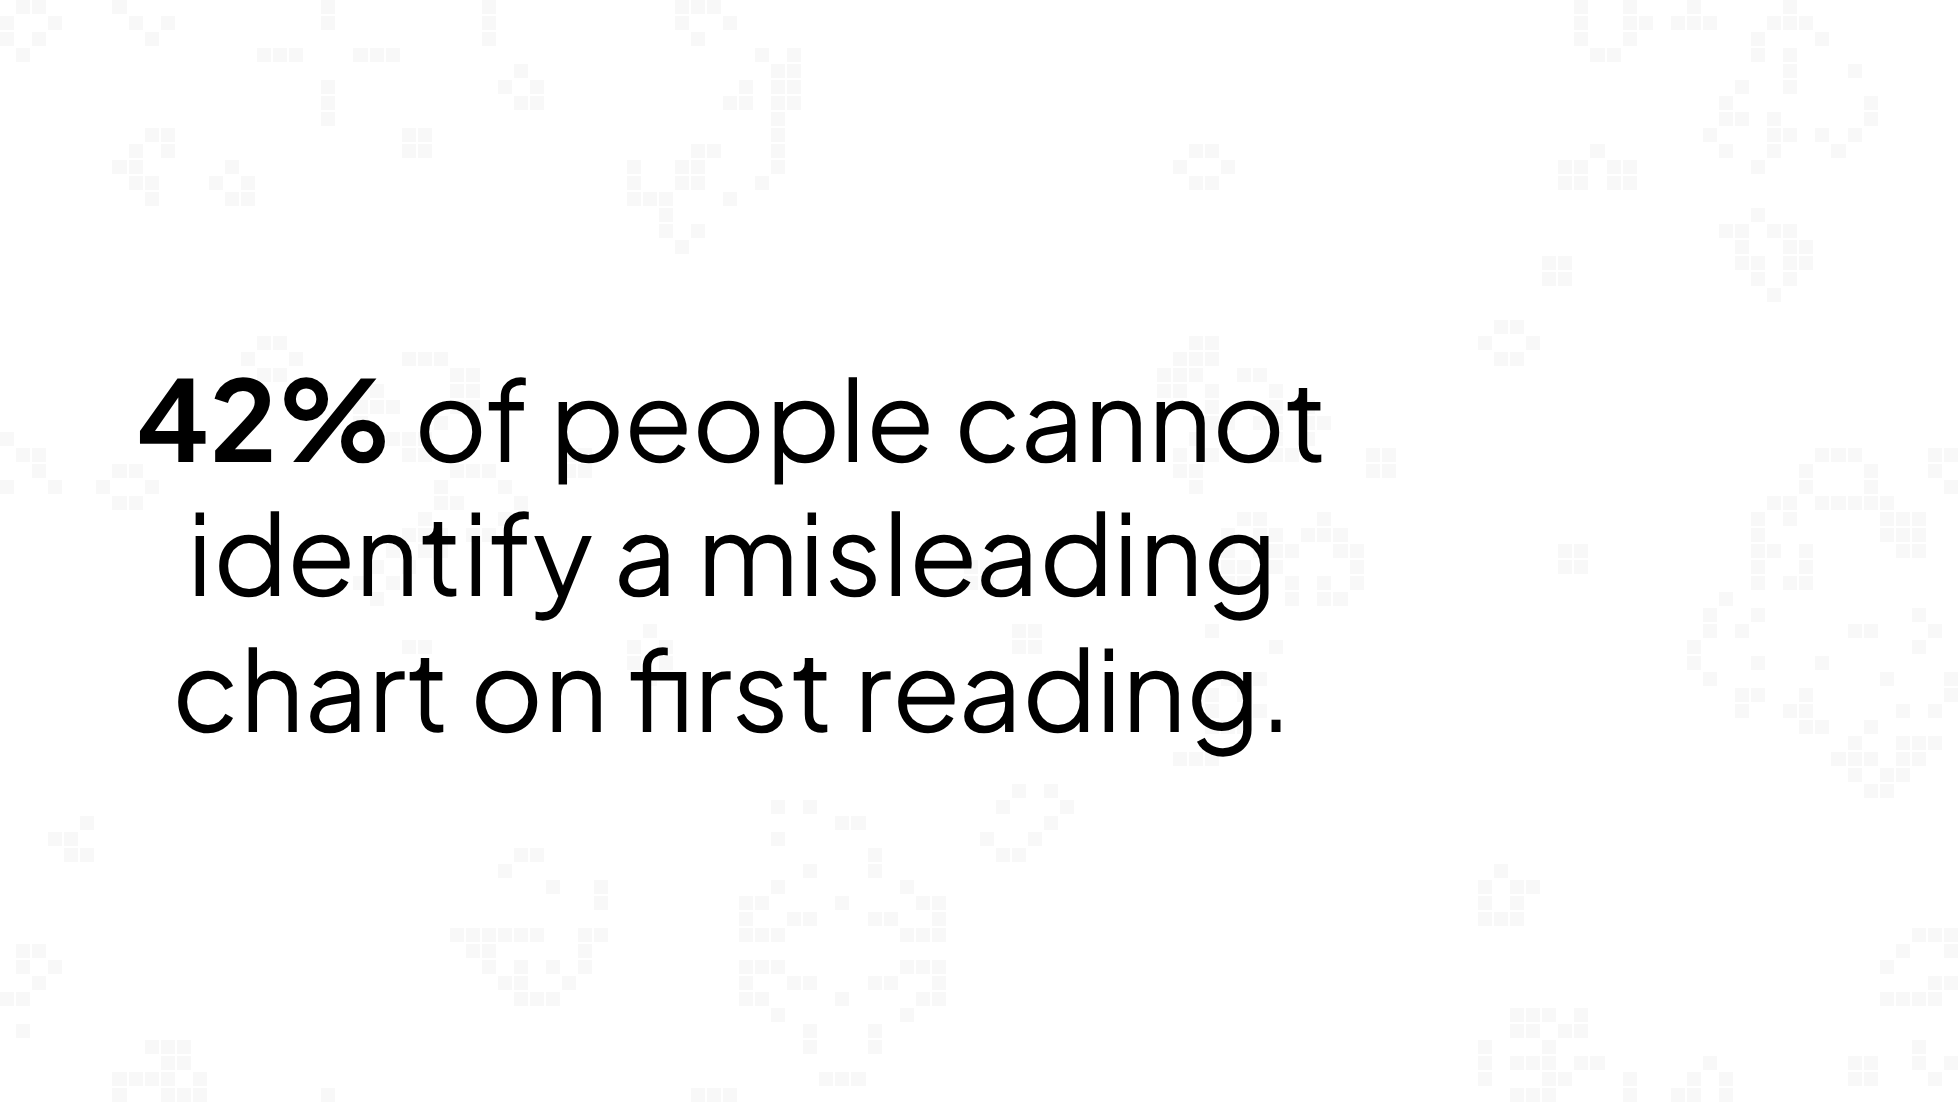
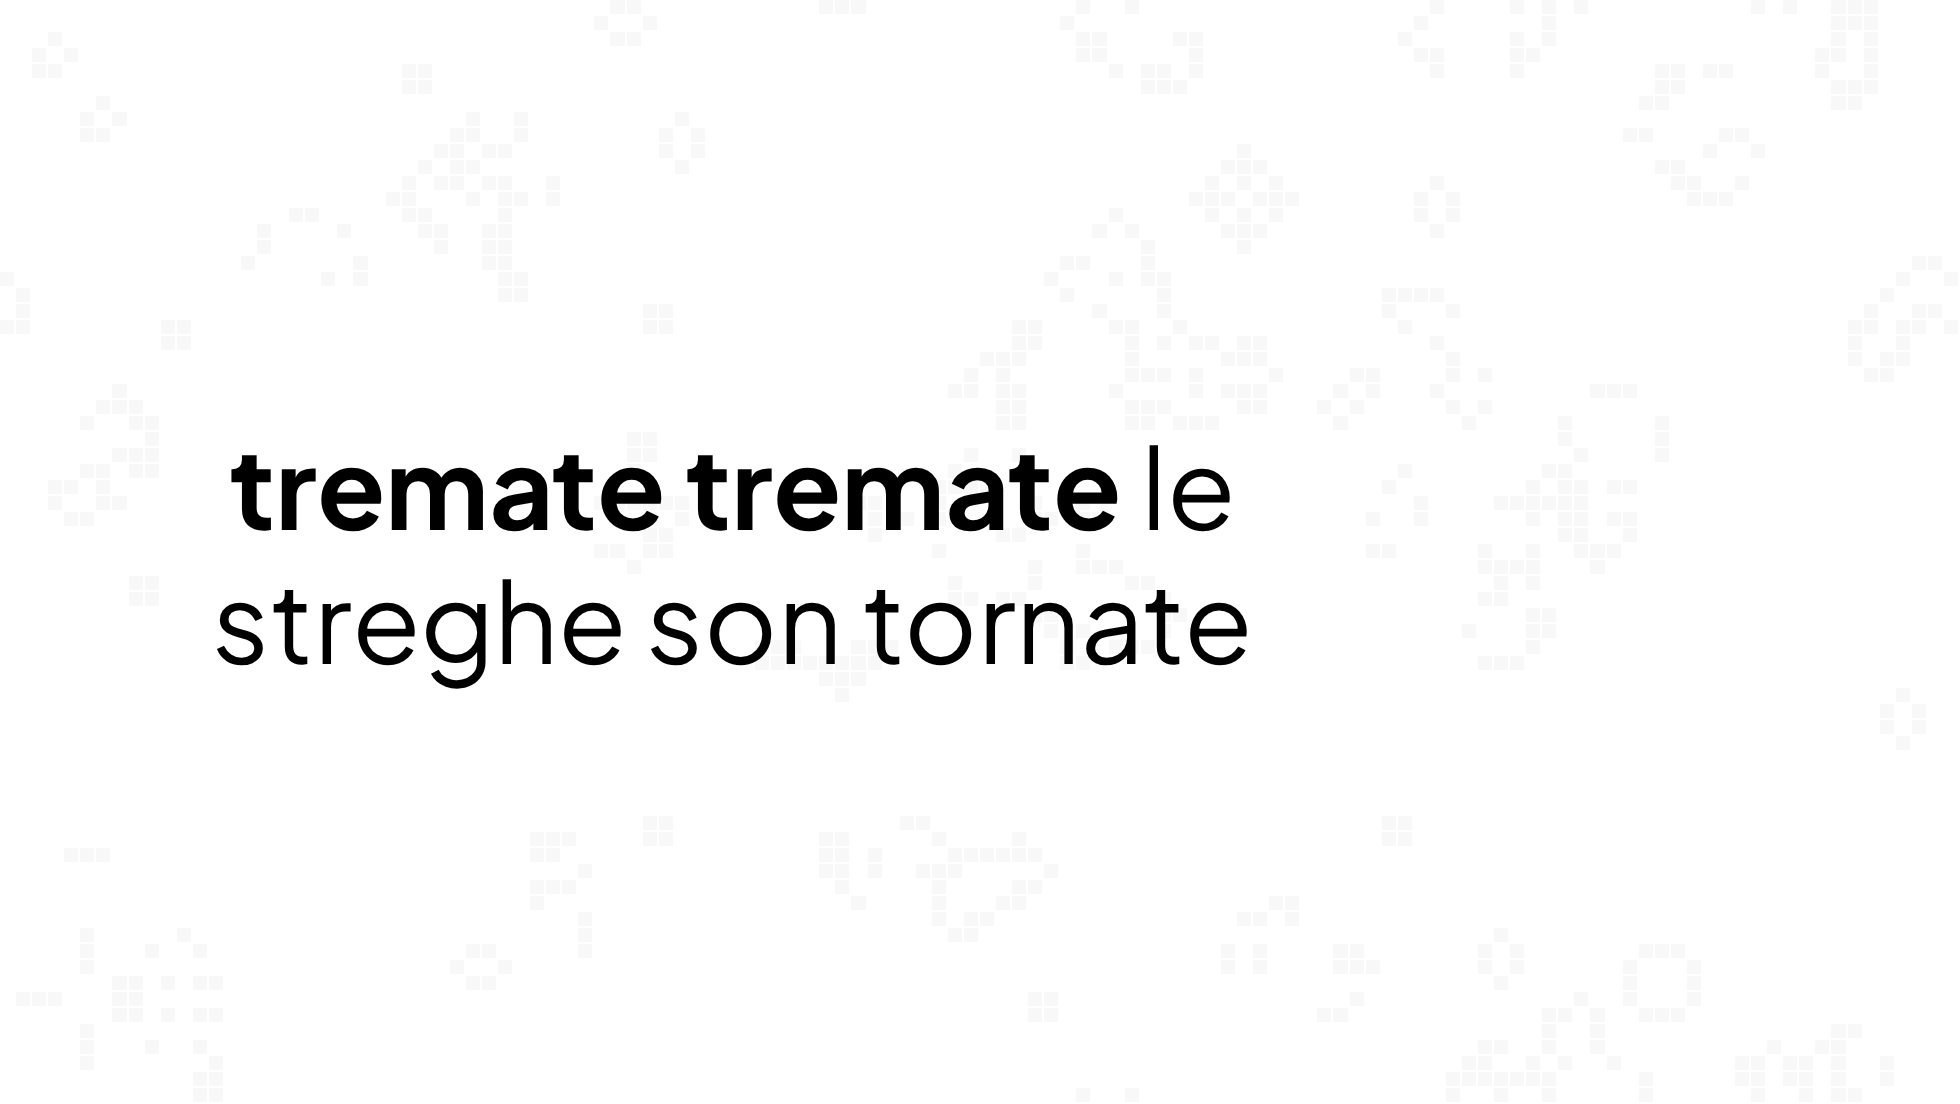
fix(fact): center text horizontally, update example content

Changed region(s): [[0.0622, 0.3388, 0.6847, 0.6775]]

diff --git a/styles/layout.css b/styles/layout.css
@@ -298,6 +298,7 @@
   font-weight: 400;
   line-height: 1.2;
   max-width: 72%;
+  text-align: center;
 }
 
 .slidev-layout.fact strong,

diff --git a/example.md b/example.md
@@ -191,7 +191,7 @@ layout: two-cols
 layout: fact
 ---
 
-**42%** of people cannot identify a misleading chart on first reading.
+**tremate tremate** le streghe son tornate
 
 ---
 layout: four-cells